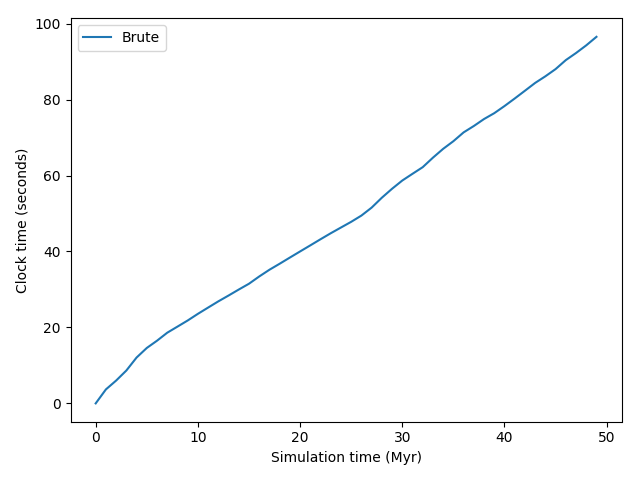
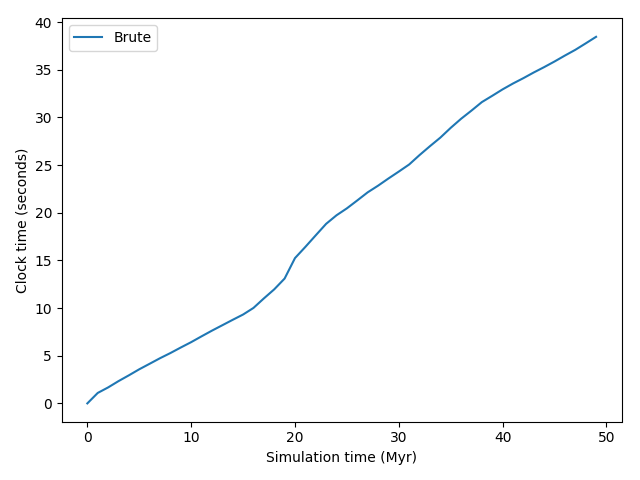
:(

diff --git a/src/main.py b/src/main.py
@@ -111,12 +111,17 @@ def gravity_code_setup(gravity_solver_str, cluster_codes):
 
     if gravity_solver_str == 'Nemesis':
 
-        stars_all = Particles(0)
-        
+	converter_sub = nbody_system.nbody_to_si(Mcluster, Rcluster)
+        gravity_dummy = Hermite(converter_sub) #doesn't get used, used for particles
+
         for cluster_code in cluster_codes:
-            
-            stars_all.add_particles( cluster_code.particles.copy() )
+
+	    cluster_particles = cluster_code.particles
+	    print('cluster_particles is', cluster_particles)
+
+            gravity_dummy.particles.add_particles( cluster_particles )
         
+	stars_all = gravity_dummy.particles
         parts = HierarchicalParticles(stars_all)
         
         converter_parent = nbody_system.nbody_to_si(Mgal, Rgal)
@@ -292,13 +297,13 @@ if __name__ == '__main__':
     
     t1 = time.time()
     Mgal, Rgal, alpha = 1.6e10|units.MSun, 1000.|units.parsec, 1.2
-    Nclusters = 2
-    Nstars, W0cluster, Mcluster, Rcluster = 100, 1.5, 100.|units.MSun, 1.|units.parsec
+    Nclusters = 1
+    Nstars, W0cluster, Mcluster, Rcluster = 20, 1.5, 100.|units.MSun, 1.|units.parsec
     Rinit = 200.|units.parsec
     parameters = [('epsilon_squared', 0.01|(units.parsec**2))]
     t_end, dt = 50.|units.Myr, 1.|units.Myr
 
-    gravity_solvers = [ 'Brute' ] #'Nemesis'
+    gravity_solvers = [ 'Nemesis' ] #'Brute'
 
     main(Rgal, Mgal, alpha, gravity_solvers, Nclusters, Nstars, W0cluster,
          Mcluster, Rcluster, Rinit, parameters, t_end, dt)
